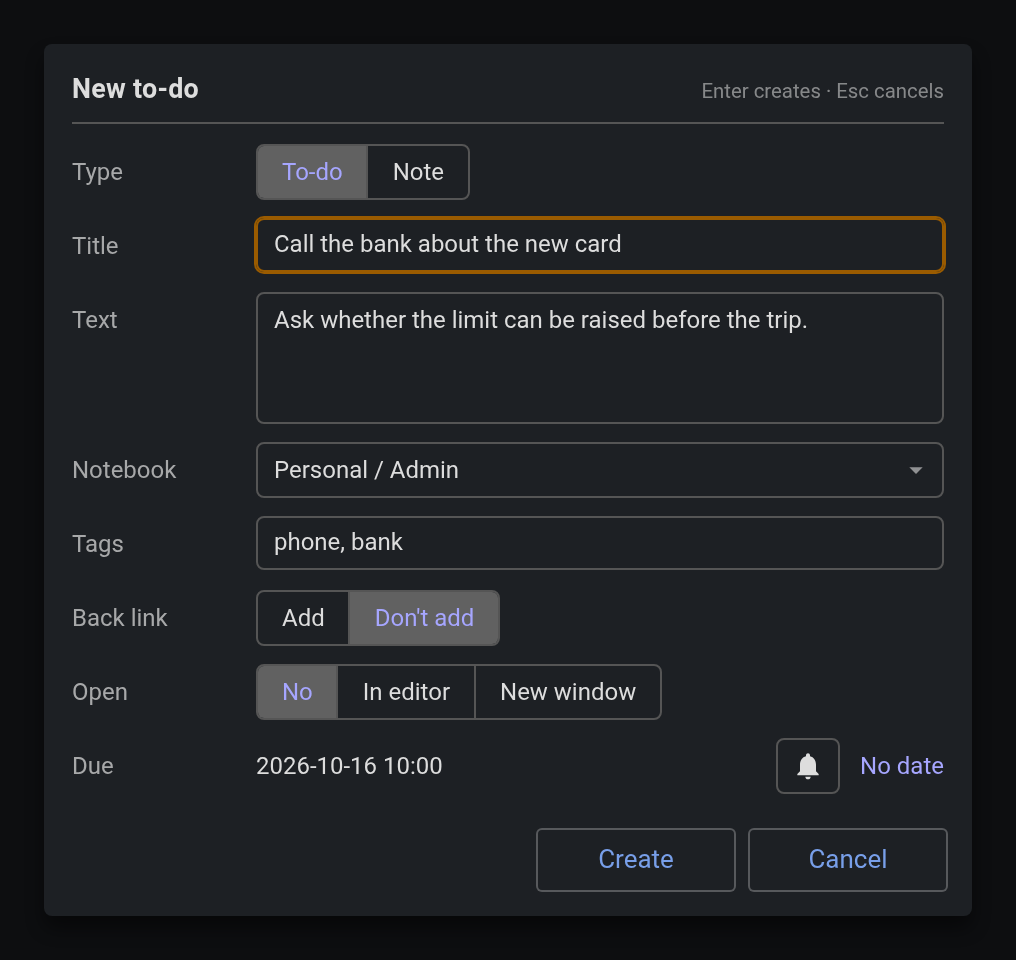
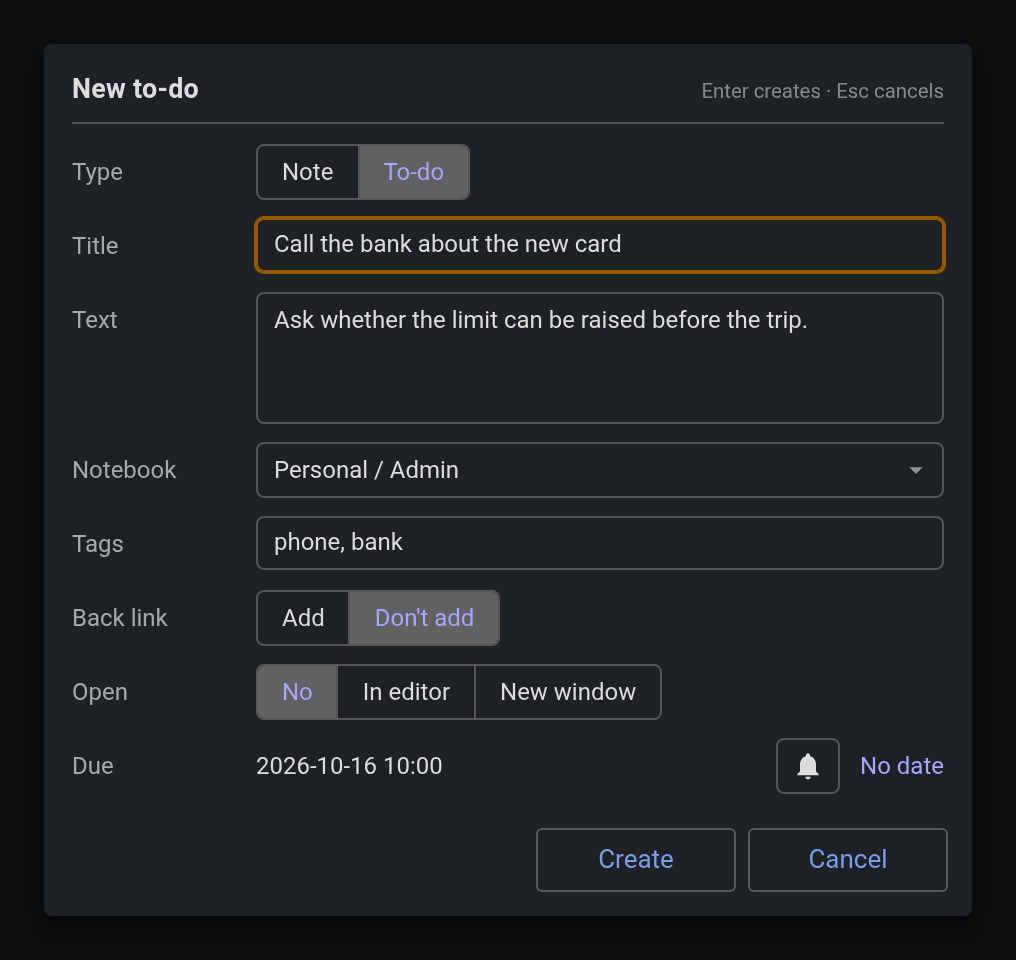
Type reads Note, To-do, the order of Cockpit's buttons
The form's Type selector and the What Jot creates setting list Note
first, then To-do, as Cockpit's New note and New to-do buttons do. The
default stays To-do. Harness 130 (one new check); e2e 37; screenshots
recaptured.

Changed region(s): [[0.2441, 0.125, 0.4577, 0.2188]]

diff --git a/src/form/formHtml.ts b/src/form/formHtml.ts
@@ -11,7 +11,7 @@
  * notebook id, day start time) - travels in a <script type="application/json"> element, with every "<" written as < so no value can close it.  *
  * setHtml writes the markup through innerHTML, so the element is never executed, only read.                                                         *
  *                                                                                                                                                  *
- * THE SELECTORS are one-line segmented controls, one builder for all (segmentRow): Type (To-do, Note); In this note on the selection and trigger    *
+ * THE SELECTORS are one-line segmented controls, one builder for all (segmentRow): Type (Note, To-do); In this note on the selection and trigger    *
  * routes (Replace with link, Keep text and, in the Markdown editor, Add link after; or Replace ++ with link and Remove ++ - short labels, the full    *
  * wording as each button's tooltip, the default first); Back link (Add, Don't add) when there is a note to link back to, the line it would add as    *
  * the Add button's tooltip; and Open (No, In editor, New window; no window on mobile). Each is a radiogroup of buttons over a hidden input named     *
@@ -155,9 +155,10 @@ export function buildFormHtml(view: FormView): string {
     // A hidden marker on mobile only, as Cockpit's #cockpitPlatform: the script mirrors it onto #joplin-plugin-content as the jot-mobile class,
     // which the narrow layout in form.css is gated on (never a viewport @media query, which would also match Joplin's measuring pass).
     const platformMarker = view.mobile ? '<div id="jotPlatform" hidden></div>' : ""
+    // Note first, then To-do: the order of Cockpit's New note and New to-do buttons, and of Joplin's own.
     const typeRow = segmentRow("jotType", "type", "Type", [
-        { value: FormModel.TODO, label: "To-do" },
         { value: FormModel.NOTE, label: "Note" },
+        { value: FormModel.TODO, label: "To-do" },
     ], type)
     const inThisNoteRow = !choices.length ? "" : segmentRow("jotInThisNote", "inThisNote", "In this note", choices.map(value => ({
         value,

diff --git a/test/run.js b/test/run.js
@@ -2521,6 +2521,14 @@ async function main() {
         assert.strictEqual(segValue(mobile.state.dialogHtml[0], 'jotOpen'), 'editor', 'a window setting on mobile starts on In editor')
     })
 
+    await check('Type: Note first, then To-do (the order of Cockpit\'s New note and New to-do buttons), in the form and in the setting; the default stays To-do', async () => {
+        const { state } = await openFormWith({})
+        const group = /data-field="type">([\s\S]*?)<\/div>/.exec(state.dialogHtml[0])[1]
+        assert.deepStrictEqual((group.match(/data-value="([a-z]+)"/g) || []).map(match => match.slice(12, -1)), ['note', 'todo'])
+        assert.strictEqual(segValue(state.dialogHtml[0], 'jotType'), 'todo')
+        assert.deepStrictEqual(Object.keys(state.settingSpecs.defaultType.options), ['note', 'todo'])
+    })
+
     await check('popup: one line per selector in the order Type, Title, Text, Notebook, Tags, In this note, Back link, Open, Due (last); a keyboard hint in the heading on desktop only', async () => {
         const { state } = await openSelectionWith('Pay rent', { selectedNote: OPEN_NOTE, settings: { tagsFrom: 'never' } })
         const html = state.dialogHtml[0]

diff --git a/src/core/settings.ts b/src/core/settings.ts
@@ -109,8 +109,8 @@ export async function setupSettings(){
             type: SettingItemType.String,
             isEnum: true,
             options: {
-                [TYPE_TODO]: "A to-do",
                 [TYPE_NOTE]: "A note",
+                [TYPE_TODO]: "A to-do",
             },
             public: true,
             section: SECTION,

diff --git a/docs/DEVLOG.md b/docs/DEVLOG.md
@@ -47,3 +47,5 @@ Slava saw the form open at the right size on the Pixel and then grow narrower an
 Harness 127 (26 checks retargeted for the textareas and the settings, two memory checks rewritten as issue 5's); e2e 37 with `e2e/fields.spec.ts`; screenshots recaptured.
 
 **Issue 6** (CJeffyB: a "copy the parent's tags" button). Issue 1's tags-on-by-default suited his notes from highlighted text and fought his quick reminders, and the button would have been one more control on a full form. The real split is how Jot was opened: a quick note (nothing highlighted: the shortcut, the menu, the toolbar) or a note from text in a note (highlighted text, the typed trigger). So the tags and the back link each became "Never / For notes from text in a note / Always" (`tagsFrom`, default for text; `backlinkFor`, default never), and the notebook got one setting per kind of note: "Notebook for quick notes" (the 0.2.0 key, `defaultNotebook`, so a chosen inbox is kept) and "Notebook for notes from text in a note" (`textNotebook`), both the current notebook by default. A first version had a single notebook plus a scope setting ("Use the Notebook setting for: quick notes only"); Slava found the interaction unreadable on the Settings screen - why would a note from text ignore the inbox? - so each kind says its notebook in its own label. 0.2.0's two switches stay registered, hidden, so a choice made in them carries over once (tags off becomes Never, a back link on becomes Always) and is then reset. Harness 129, e2e 37; screenshots recaptured.
+
+The Type selector reads Note, To-do, the order of Cockpit's New note and New to-do buttons, and so does the What Jot creates setting; the default stays To-do. Harness 130.

diff --git a/README.md b/README.md
@@ -32,7 +32,7 @@ In Joplin, Settings › Plugins › search for Jot and install it. Or download `
 
 Type, Title, Text, Notebook, Tags, then the choices, and Due last. The title is focused when the form opens, so typing a title and pressing Enter is all a capture needs; Enter creates from anywhere in the form except the Text, where it is a new line, so a date picked with the mouse is followed by Enter as well; with the title still empty, Enter keeps the form open and puts the cursor back in the title. Every choice is one line of buttons you click or move through with the arrow keys:
 
-- **Type**: To-do or Note.
+- **Type**: Note or To-do, in the order of Cockpit's buttons.
 - **In this note**, when the form was opened from highlighted text: Replace with link (the default), Keep text, or Add link after. Opened by `++`: Replace `++` with link (the default) or Remove `++`. Each starts on its setting.
 - **Back link**: Add puts a line linking to the note you are in at the top of the new note, then an empty line, then the text (or at the bottom, by setting). Hover Add to see the line. It starts on the setting, Don't add unless you change it.
 - **Open**: No (stay where you are, the default), In editor, or New window. It starts on the setting.
